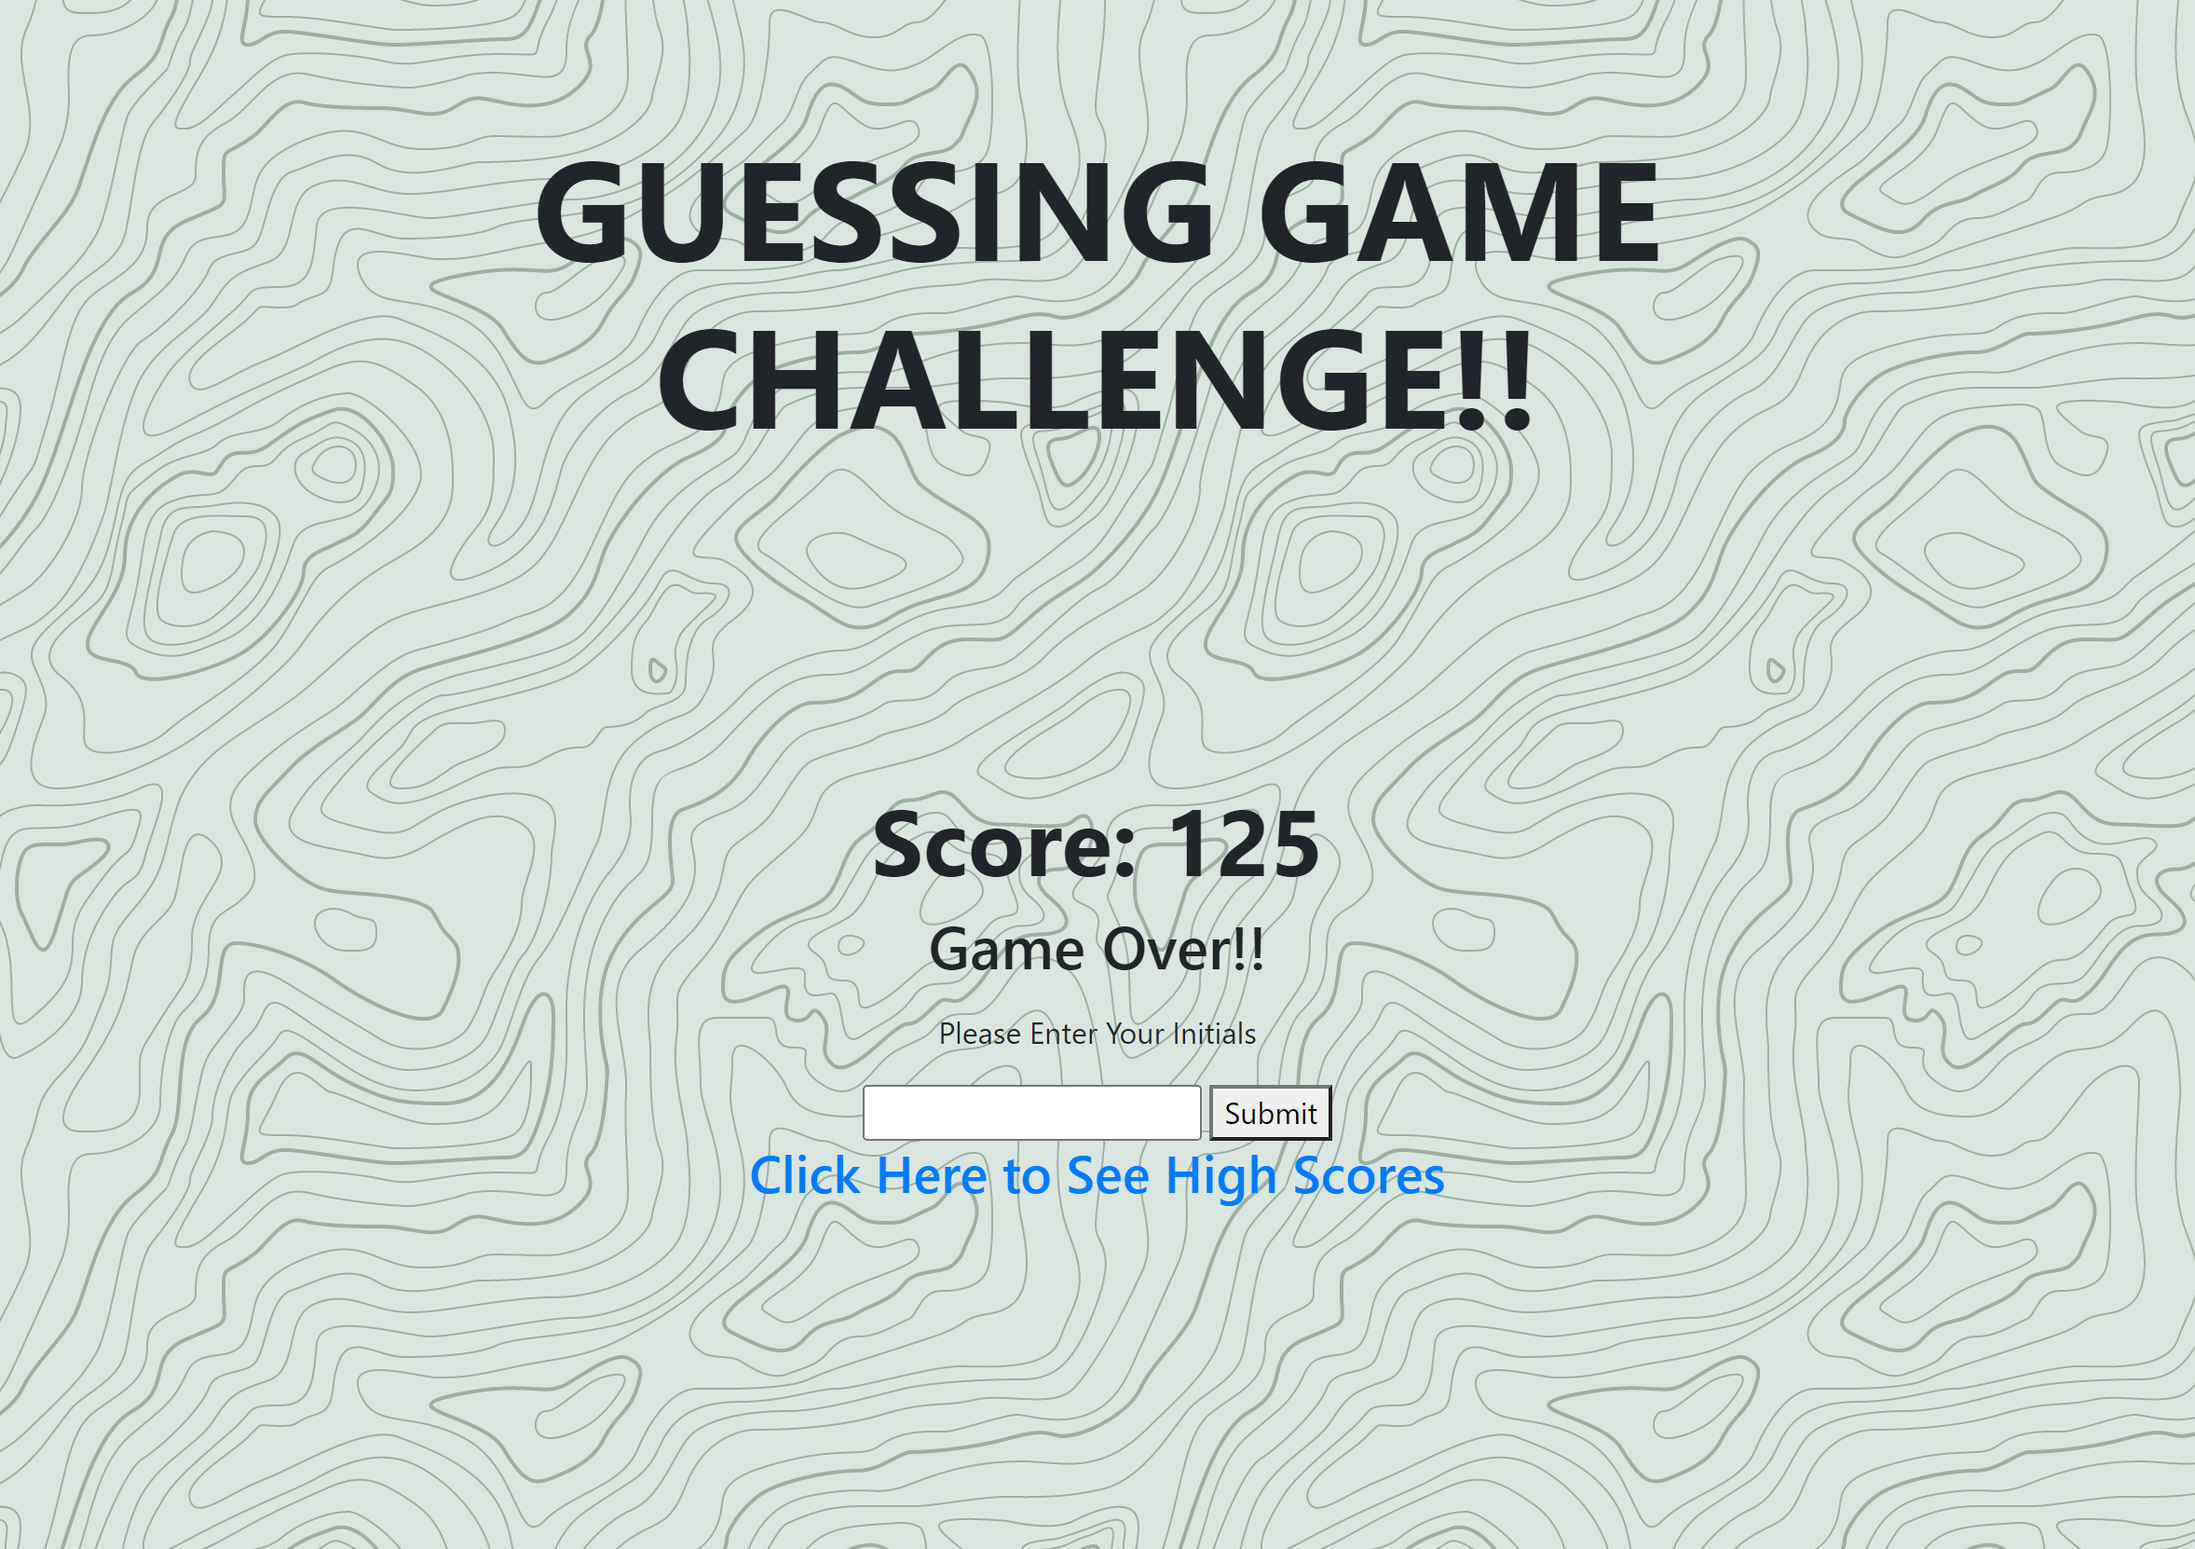
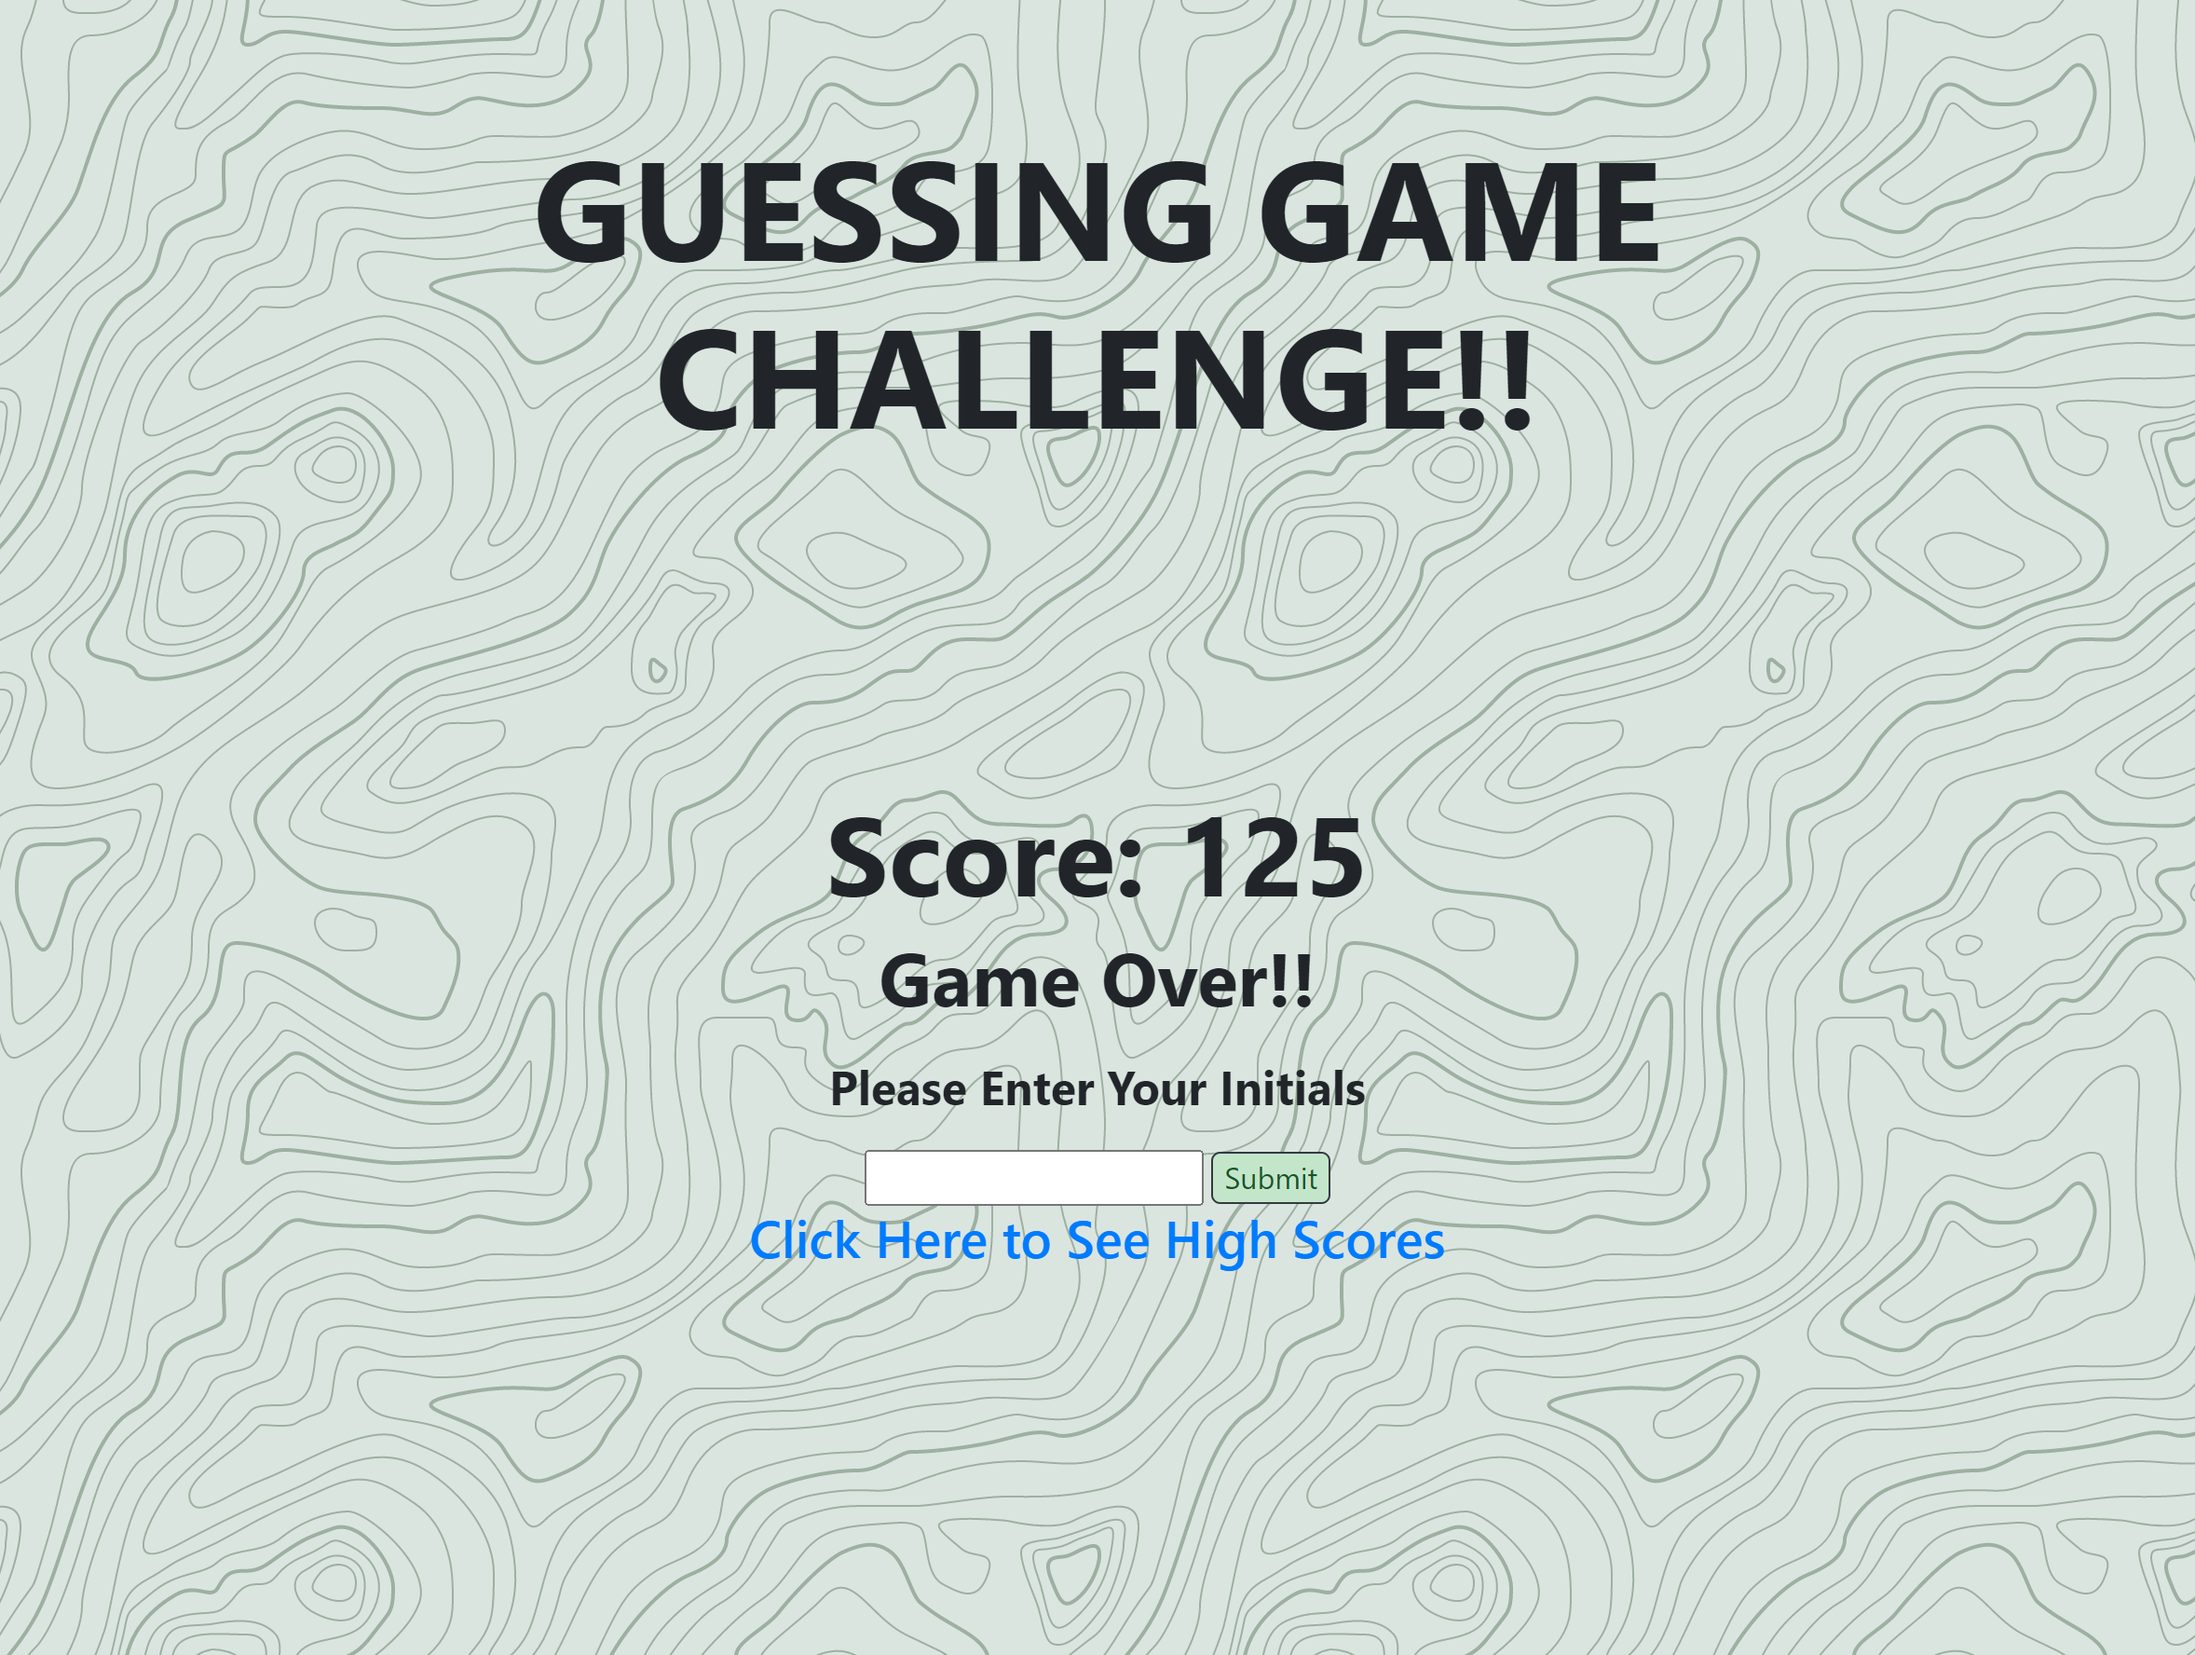
updated css and changed screenshots

Changed region(s): [[0.0, 0.0, 1.0, 1.0], [0.9915, 0.0614, 1.0, 0.0921], [0.031, 0.0, 0.062, 0.0307]]

diff --git a/index.html b/index.html
@@ -68,19 +68,20 @@
         
         <div id = "endGame" style="display: none;">
             <div>
-                <h2>Game Over!!</h2>
+                <h2 id = "gover">Game Over!!</h2>
                 <p id = "finalScore"></p>
-                <p>Please Enter Your Initials</p>
+                <p id = "init">Please Enter Your Initials</p>
                 <input id="initials" type="text" required>
-                <button id="submit" onclick="savedScore();">Submit</button>
+                <button id="submit" onclick="savedScore();" class="list-group-item-success rounded-lg border border-dark text-black">Submit</button>
                 <h3 id = "listLink"><a href="#highscores">Click Here to See High Scores</a></h3>
             </div>
         </div>
         
         <div class="row justify-content-center" id="highscores" style="display: none;">
             <h1 id = "scorelist">--- Highscores ---</h1>
-            <button id = "back">Go Back</button>
-            <button id = "clear">Clear Highscores</button>
+            <button id = "back" class="btn-lg list-group-item-success rounded-lg border border-dark text-black">Go Back</button>
+            <br>
+            <button id = "clear" class="btn-lg list-group-item-success rounded-lg border border-dark text-black">Clear Highscores</button>
         </div>
 
     </div>

diff --git a/style.css b/style.css
@@ -27,6 +27,25 @@ body {
 }
 
 #scores {
-    font-size: 50px;
+    font-size: 60px;
     font-weight: bold;
+}
+
+#gover {
+    font-size: 40px;
+    font-weight: bold;
+}
+#init {
+    font-size: 25px;
+    font-weight: bold;
+}
+
+#back {
+    margin:auto;
+    display:block;
+}
+
+#clear {
+    margin:auto;
+    display:block;
 }
